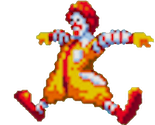
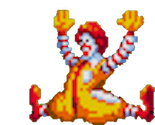
gif done

diff --git a/src/sketch.ts b/src/sketch.ts
@@ -24,7 +24,7 @@ function preload() {
 
     sequences = {
 
-        idleLeft: [
+        idle: [
             loadImage('./assets/images/ronald/idle-left/0.png'),
             loadImage('./assets/images/ronald/idle-left/1.png'),
             loadImage('./assets/images/ronald/idle-left/2.png'),
@@ -36,17 +36,17 @@ function preload() {
             loadImage('./assets/images/ronald/idle-left/8.png')
         ],
 
-        idleRight: [
-            loadImage('./assets/images/ronald/idle-right/0.png'),
-            loadImage('./assets/images/ronald/idle-right/1.png'),
-            loadImage('./assets/images/ronald/idle-right/2.png'),
-            loadImage('./assets/images/ronald/idle-right/3.png'),
-            loadImage('./assets/images/ronald/idle-right/4.png'),
-            loadImage('./assets/images/ronald/idle-right/5.png'),
-            loadImage('./assets/images/ronald/idle-right/6.png'),
-            loadImage('./assets/images/ronald/idle-right/7.png'),
-            loadImage('./assets/images/ronald/idle-right/8.png')
-        ],
+        // idleRight: [
+        //     loadImage('./assets/images/ronald/idle-right/0.png'),
+        //     loadImage('./assets/images/ronald/idle-right/1.png'),
+        //     loadImage('./assets/images/ronald/idle-right/2.png'),
+        //     loadImage('./assets/images/ronald/idle-right/3.png'),
+        //     loadImage('./assets/images/ronald/idle-right/4.png'),
+        //     loadImage('./assets/images/ronald/idle-right/5.png'),
+        //     loadImage('./assets/images/ronald/idle-right/6.png'),
+        //     loadImage('./assets/images/ronald/idle-right/7.png'),
+        //     loadImage('./assets/images/ronald/idle-right/8.png')
+        // ],
 
 
         walkLeft: [
@@ -72,10 +72,6 @@ function preload() {
             loadImage('./assets/images/ronald/jump-left/1.png'),
             loadImage('./assets/images/ronald/jump-left/2.png'),
             loadImage('./assets/images/ronald/jump-left/3.png'),
-            loadImage('./assets/images/ronald/jump-left/4.png'),
-            loadImage('./assets/images/ronald/jump-left/5.png'),
-            loadImage('./assets/images/ronald/jump-left/6.png'),
-            loadImage('./assets/images/ronald/jump-left/7.png')
         ],
 
         jumpRight: [
@@ -83,13 +79,9 @@ function preload() {
             loadImage('./assets/images/ronald/jump-right/1.png'),
             loadImage('./assets/images/ronald/jump-right/2.png'),
             loadImage('./assets/images/ronald/jump-right/3.png'),
-            loadImage('./assets/images/ronald/jump-right/4.png'),
-            loadImage('./assets/images/ronald/jump-right/5.png'),
-            loadImage('./assets/images/ronald/jump-right/6.png'),
-            loadImage('./assets/images/ronald/jump-right/7.png')
         ],
 
-        dieLeft: [
+        die: [
             loadImage('./assets/images/ronald/die-left/0.png'),
             loadImage('./assets/images/ronald/die-left/1.png'),
             loadImage('./assets/images/ronald/die-left/2.png'),
@@ -100,16 +92,16 @@ function preload() {
             loadImage('./assets/images/ronald/die-left/7.png')
         ],
 
-        dieRight: [
-            loadImage('./assets/images/ronald/die-right/0.png'),
-            loadImage('./assets/images/ronald/die-right/1.png'),
-            loadImage('./assets/images/ronald/die-right/2.png'),
-            loadImage('./assets/images/ronald/die-right/3.png'),
-            loadImage('./assets/images/ronald/die-right/4.png'),
-            loadImage('./assets/images/ronald/die-right/5.png'),
-            loadImage('./assets/images/ronald/die-right/6.png'),
-            loadImage('./assets/images/ronald/die-right/7.png')
-        ],
+        // dieRight: [
+        //     loadImage('./assets/images/ronald/die-right/0.png'),
+        //     loadImage('./assets/images/ronald/die-right/1.png'),
+        //     loadImage('./assets/images/ronald/die-right/2.png'),
+        //     loadImage('./assets/images/ronald/die-right/3.png'),
+        //     loadImage('./assets/images/ronald/die-right/4.png'),
+        //     loadImage('./assets/images/ronald/die-right/5.png'),
+        //     loadImage('./assets/images/ronald/die-right/6.png'),
+        //     loadImage('./assets/images/ronald/die-right/7.png')
+        // ],
 
 
     }

diff --git a/src/Player.ts b/src/Player.ts
@@ -9,7 +9,7 @@ class Player extends AnimatedEntity {
     private timeToChangeFrame: number;
     private sequenceIndex: number;
     private activeSequence: p5.Image[];
-
+    public isDead: boolean;
     constructor() {
         super(createVector(1050,0), createVector(80,180), createVector(0, 5), createVector(0, 0.8), sequences.jumpRight[0], true, false)
         this.imageTransform = {
@@ -21,15 +21,35 @@ class Player extends AnimatedEntity {
         this.timeToChangeFrame = 100;
         this.sequenceIndex = 0;
         this.activeSequence = sequences.walkLeft;
+        this.isDead = false;
     //image(this.fill, this.position.x, this.position.y, this.size.x, this.size.y, this.imageTransform.sx, this.imageTransform.sy, this.imageTransform.sWidth, this.imageTransform.sHeight)
     }
 
     public update(): void {
-        super.update();
-        if (this.velocity.x > 0) {
+       
+        if (this.isDead){
+            this.activeSequence = sequences.die;
+            this.isSolid = false;
+            this.acceleration.set(0, -0.09);
+        }
+
+        else if (!this.isOnGround){
+            if (this.velocity.x <= 0){
+            this.activeSequence = sequences.jumpLeft}
+            else {this.activeSequence = sequences.jumpRight}
+        }
+
+        else if (keyIsDown(68)) {
             this.activeSequence = sequences.walkRight;
-        } else {
-            this.activeSequence = sequences.walkLeft;
+        }
+
+        else if (keyIsDown(65)){
+            this.activeSequence = sequences.walkLeft
+        
+        } 
+        
+        else {
+            this.activeSequence = sequences.idle;
         }
 
         this.timeToChangeFrame -= deltaTime;
@@ -43,6 +63,7 @@ class Player extends AnimatedEntity {
             this.fill = this.activeSequence[this.sequenceIndex];
             this.timeToChangeFrame = 100;
         }
+        super.update();
     }
 
 

diff --git a/src/interfaces.ts b/src/interfaces.ts
@@ -5,13 +5,13 @@ interface Images {
 }
 
 interface Sequences {
-  idleLeft: p5.Image[];
-  idleRight: p5.Image[];
+  idle: p5.Image[];
+  // idleRight: p5.Image[];
   walkLeft: p5.Image[];
   walkRight: p5.Image[];
   jumpLeft: p5.Image[];
   jumpRight: p5.Image[];
-  dieLeft: p5.Image[];
-  dieRight: p5.Image[];
+  die: p5.Image[];
+  // dieRight: p5.Image[];
 }
 

diff --git a/src/GameEngine.ts b/src/GameEngine.ts
@@ -59,6 +59,7 @@ class GameEngine implements Visual {
     }
     die(): void {
         console.log('You died');
+        this.player.isDead = true;
     }
 
     private detectCollisions() {
